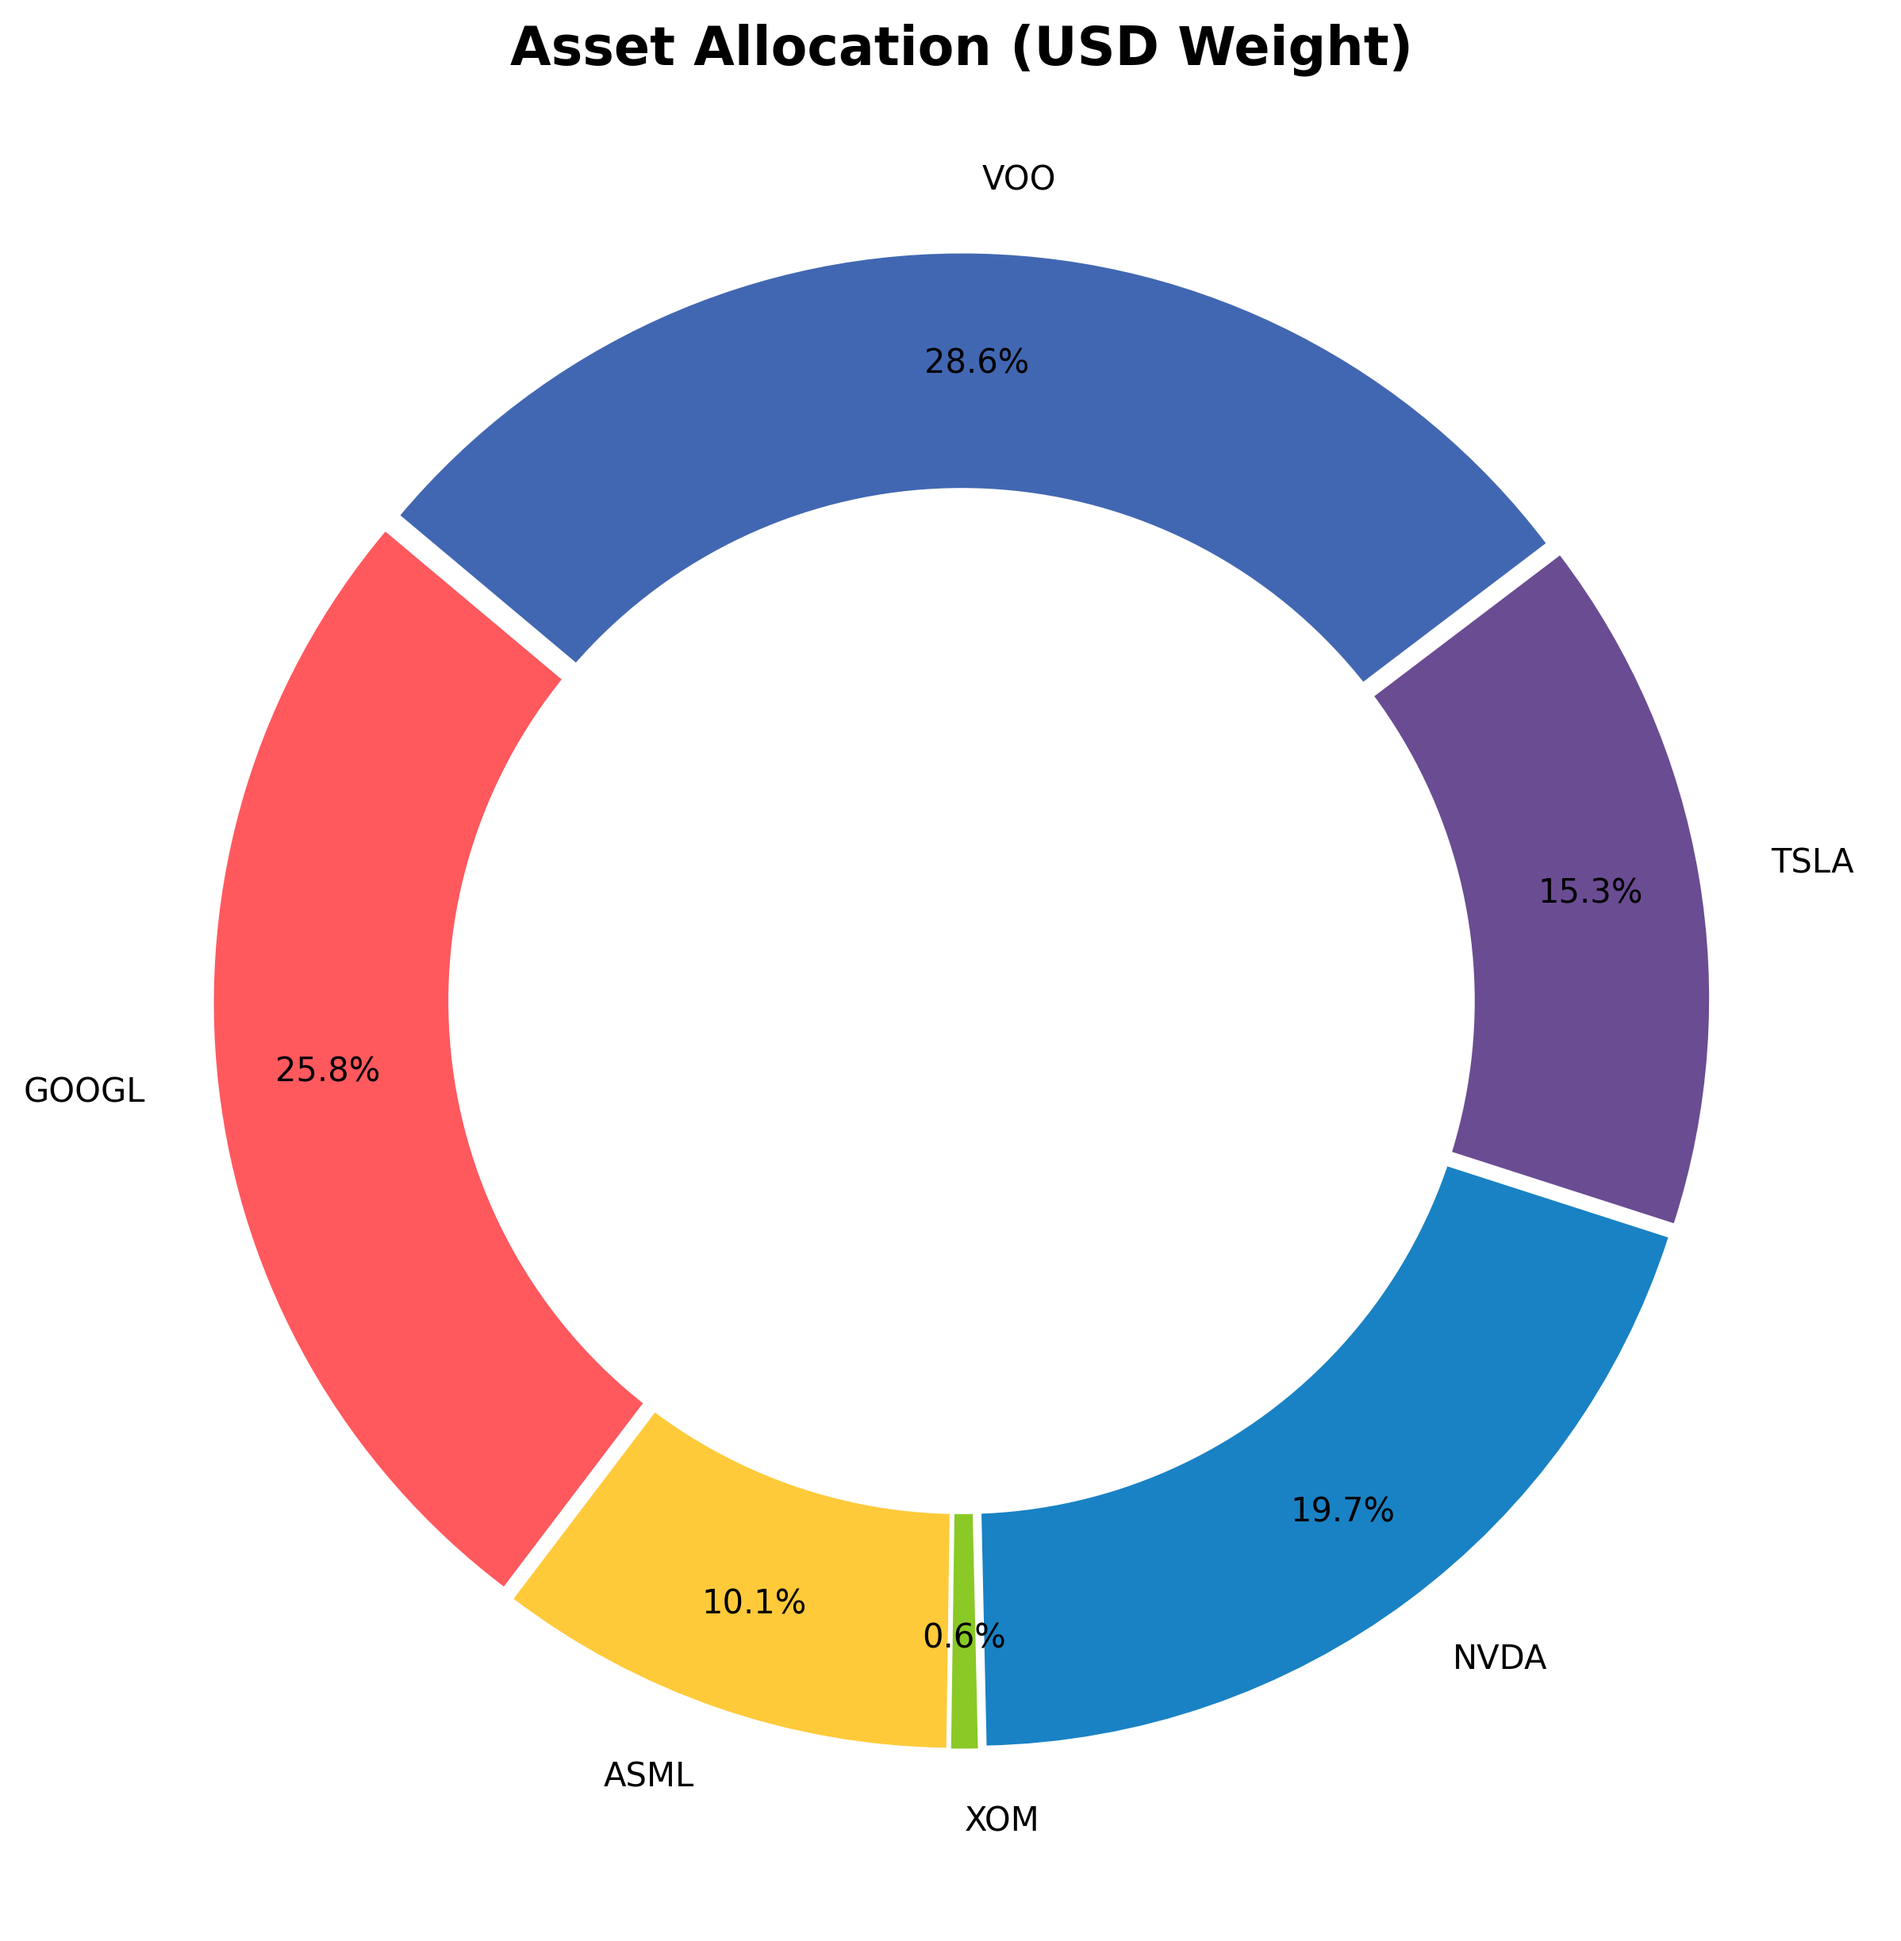
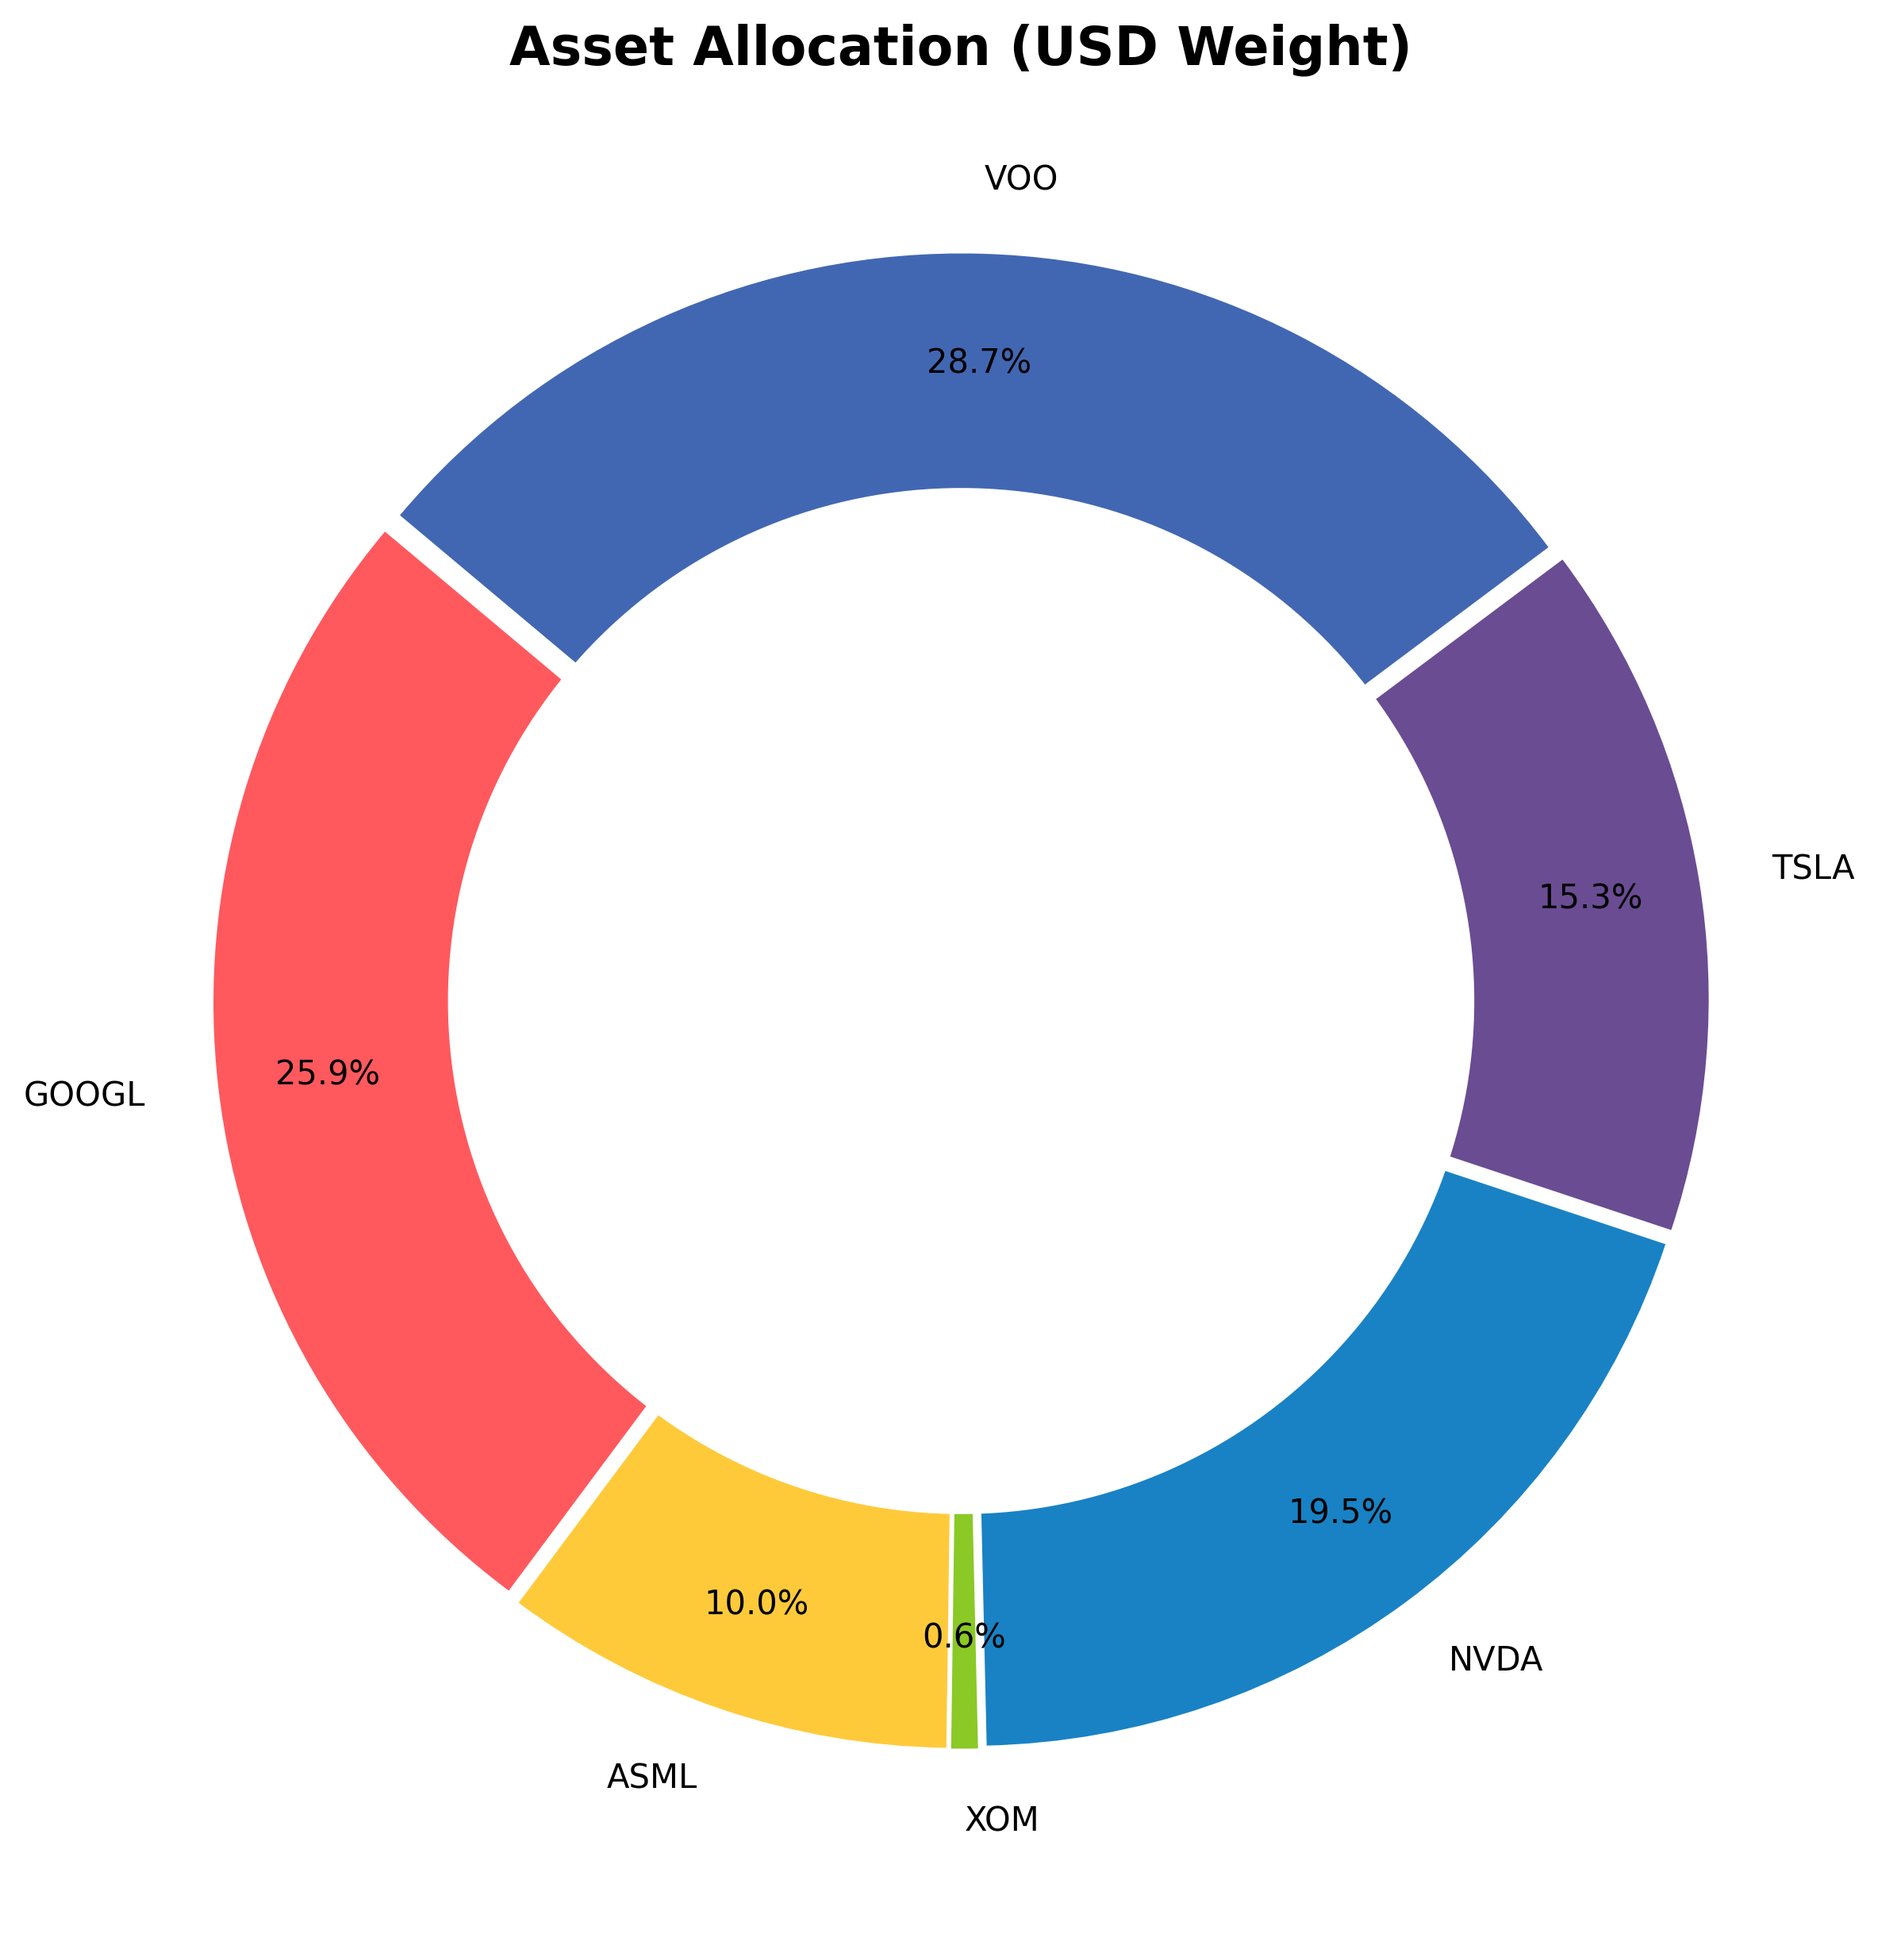
System Run: Analytics & Archive Update [skip ci]

diff --git a/README.md b/README.md
@@ -1,23 +1,23 @@
 # 📊 Portfolio Dashboard | מעקב תיק השקעות
-**Last Update:** 06/03/2026 21:38 | **USD/ILS:** ₪3.088
+**Last Update:** 06/03/2026 22:38 | **USD/ILS:** ₪3.087
 
 ## 💰 Portfolio Summary | סיכום התיק
 | Metric | Value | נתון |
 | :--- | :--- | :--- |
-| **Current Value** | `₪160,960` | **שווי נוכחי** |
-| **Total Invested** | `₪129,690` | **סך השקעה** |
-| **Total Profit/Loss** | `+24.11%` (₪31,270) | **רווח/הפסד כולל** |
-| **Daily Change** | `-0.58%` | **שינוי יומי** |
+| **Current Value** | `₪159,599` | **שווי נוכחי** |
+| **Total Invested** | `₪129,652` | **סך השקעה** |
+| **Total Profit/Loss** | `+23.10%` (₪29,947) | **רווח/הפסד כולל** |
+| **Daily Change** | `-1.26%` | **שינוי יומי** |
 
 ## 📜 Holdings | פירוט החזקות
 | Ticker | Shares | Avg. Cost | Current Price | P&L % | P&L ILS |
 | :--- | :--- | :--- | :--- | :--- | :--- |
-| GOOGL | 45 | $181.15 | $298.62 | 🟢 +64.85% | ₪16,323 |
-| ASML | 4 | $934.51 | $1,316.63 | 🟢 +40.89% | ₪4,720 |
-| XOM | 2 | $126.08 | $151.71 | 🟢 +20.33% | ₪158 |
-| NVDA | 57 | $148.62 | $180.04 | 🟢 +21.14% | ₪5,530 |
-| TSLA | 20 | $436.45 | $398.58 | 🔴 -8.68% | ₪-2,339 |
-| VOO | 24 | $527.38 | $620.18 | 🟢 +17.60% | ₪6,877 |
+| GOOGL | 45 | $181.15 | $297.86 | 🟢 +64.43% | ₪16,213 |
+| ASML | 4 | $934.51 | $1,288.30 | 🟢 +37.86% | ₪4,369 |
+| XOM | 2 | $126.08 | $150.89 | 🟢 +19.68% | ₪153 |
+| NVDA | 57 | $148.62 | $177.08 | 🟢 +19.15% | ₪5,008 |
+| TSLA | 20 | $436.45 | $396.44 | 🔴 -9.17% | ₪-2,470 |
+| VOO | 24 | $527.38 | $617.47 | 🟢 +17.08% | ₪6,675 |
 
 ## 📈 Charts | גרפים
 ![Performance](./data_hub/portfolio_performance.png)
